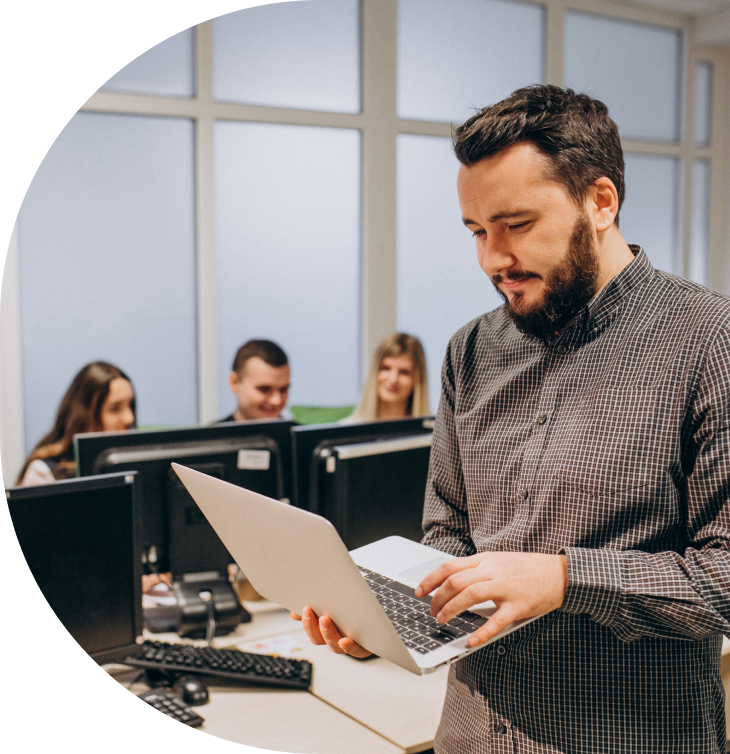
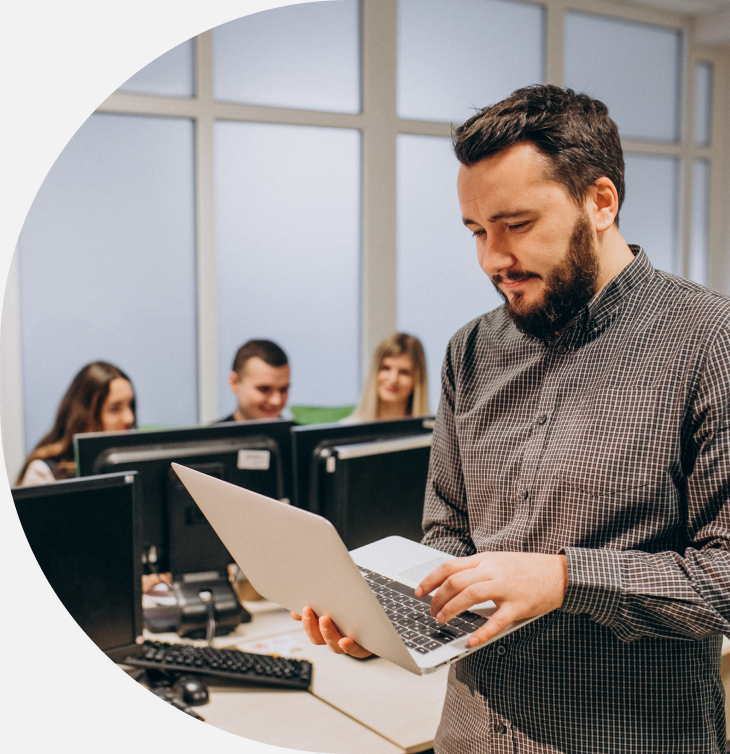
index-hero

diff --git a/src/scss/assets/_variables.scss b/src/scss/assets/_variables.scss
@@ -20,11 +20,11 @@ $--section-x-padding-minus-576: calc((50vw - 268px) * -1);
 $--section-x-padding-minus-768: calc((50vw - 360px) * -1);
 $--section-x-padding-minus-1024: calc((50vw - 480px) * -1);
 $--section-x-padding-minus-1280: calc((50vw - 600px) * -1);
-$--section-x-padding-320: 60px;
-$--section-x-padding-576: 0px;
-$--section-x-padding-768: 0px;
-$--section-x-padding-1024: 70px;
-$--section-x-padding-1280: 100px;
+$--section-y-padding-320: 50px;
+$--section-y-padding-576: 0px;
+$--section-y-padding-768: 0px;
+$--section-y-padding-1024: 60px;
+$--section-y-padding-1280: 80px;
 
 $--header-height-320: 70px;
 $--header-height-768: 90px;

diff --git a/src/sections/index-hero/index-hero.scss b/src/sections/index-hero/index-hero.scss
@@ -1,3 +1,40 @@
 @import '../../scss/assets/colors';
 @import '../../scss/assets/mixins';
 @import '../../scss/assets/variables';
+
+.index-hero {
+  padding-bottom: 70px;
+  background: $--background-color;
+
+  &__pic {
+    margin: 0 $--section-x-padding-minus-320 30px 0;
+    display: block;
+  }
+
+  &__img {
+    width: 100%;
+    height: 100%;
+  }
+
+  &__title {
+    position: relative;
+  }
+
+  &__descr {
+    margin: 30px 0 0;
+    position: relative;
+  }
+
+  &__btns {
+    margin: 40px 0 0;
+    display: flex;
+  }
+
+  &__btn {
+    padding: 0.86em 2em;
+
+    &:first-child {
+      margin-right: 15px;
+    }
+  }
+}

diff --git a/src/scss/style/interface/interface.scss b/src/scss/style/interface/interface.scss
@@ -12,7 +12,7 @@ html[lang] {
 }
 
 body {
-  font: 14px/1.5 $--text-font;
+  font: 300 14px/1.5 $--text-font;
   color: $--black-color;
   // no-scroll is added by open mobile-menu or popups
   &.no-scroll {
@@ -154,6 +154,22 @@ body {
 
 // Sections
 .sect {
+  padding-top: $--section-y-padding-320;
+  padding-bottom: $--section-y-padding-320;
+  &-h1 {
+    font: 500 28px/1.3 $--text-font;
+    letter-spacing: 0.01em;
+  }
+
+  &-h2 {
+    font: 500 26px/1.5 $--text-font;
+    letter-spacing: 0.01em;
+  }
+
+  &-h3 {
+    font: 500 20px/1.5 $--text-font;
+  }
+
   &-bg {}
 
   &-title {}

diff --git a/src/js/script.js b/src/js/script.js
@@ -31,13 +31,13 @@ document.addEventListener('DOMContentLoaded', function() {
     allowPageScroll: false
   });
 
-  menu.open();
+  // menu.open();
 
-  // let navLinks = qa('.nav-link, .hdr__callback');
+  let navLinks = qa('.nav-link[href^="#"], .btn[data-scroll-target], .hdr__logo-img[data-scroll-target]');
 
-  // for (let i = 0, len = navLinks.length; i < len; i++) {
-  // navLinks[i].addEventListener('click', scrollToTarget);
-  // }
+  for (let i = 0, len = navLinks.length; i < len; i++) {
+    navLinks[i].addEventListener('click', scrollToTarget);
+  }
 
   // sticky(hdr);
 

diff --git a/src/sections/index-hero/index-hero.768.scss b/src/sections/index-hero/index-hero.768.scss
@@ -1,3 +1,39 @@
 @import '../../scss/assets/colors';
 @import '../../scss/assets/mixins';
 @import '../../scss/assets/variables';
+
+.index-hero {
+  padding-top: 110px;
+  position: relative;
+
+  &__pic {
+    margin: 0;
+    width: 65%;
+    position: absolute;
+    right: 0;
+    top: 0;
+  }
+
+  &__img {}
+
+  &__title {
+    max-width: 350px;
+  }
+
+  &__descr {
+    margin: 40px 0 0;
+    max-width: 310px;
+  }
+
+  &__btns {
+    position: relative;
+  }
+
+  &__btn {
+    padding: 0.87em 2.5em;
+
+    &:first-child {
+      margin-right: 30px;
+    }
+  }
+}

diff --git a/src/scss/style/buttons/buttons.scss b/src/scss/style/buttons/buttons.scss
@@ -1,15 +1,18 @@
-
 @import '../../assets/colors';
 @import '../../assets/mixins';
 @import '../../assets/variables';
+
 .btn {
-  
+  font: 500 14px/1.5 $--text-font;
 }
 
-.btn-blue {
-
+.btn-primary {
+  border: 1px solid $--accent-color;
+  background: $--accent-color;
+  color: $--white-color;
 }
 
-.btn-ol {
-
+.btn-ol-primary {
+  border: 1px solid $--accent-color;
+  color: $--black-color;
 }

diff --git a/src/sections/index-hero/index-hero.1024.scss b/src/sections/index-hero/index-hero.1024.scss
@@ -1,3 +1,25 @@
 @import '../../scss/assets/colors';
 @import '../../scss/assets/mixins';
 @import '../../scss/assets/variables';
+
+.index-hero {
+  padding-top: 100px;
+  padding-bottom: 95px;
+
+  &__pic {
+    width: auto;
+    height: 100%;
+  }
+
+  &__img {}
+
+  &__title {
+    max-width: 515px;
+  }
+
+  &__descr {
+    max-width: 395px;
+  }
+
+  &__btns {}
+}

diff --git a/src/scss/style/interface/interface.1024.scss b/src/scss/style/interface/interface.1024.scss
@@ -1,4 +1,24 @@
-
 @import '../../assets/colors';
 @import '../../assets/mixins';
 @import '../../assets/variables';
+
+body {
+  font-size: 18px;
+}
+
+.sect {
+  padding-top: $--section-y-padding-1024;
+  padding-bottom: $--section-y-padding-1024;
+
+  &-h1 {}
+
+  &-h2 {}
+
+  &-h3 {}
+
+  &-bg {}
+
+  &-title {}
+
+  &-descr {}
+}

diff --git a/src/sections/index-hero/index-hero.1280.scss b/src/sections/index-hero/index-hero.1280.scss
@@ -1,3 +1,22 @@
 @import '../../scss/assets/colors';
 @import '../../scss/assets/mixins';
 @import '../../scss/assets/variables';
+
+.index-hero {
+  padding-top: 90px;
+  padding-bottom: 110px;
+
+  &__pic {}
+
+  &__img {}
+
+  &__title {
+    max-width: 640px;
+  }
+
+  &__descr {
+    max-width: 430px;
+  }
+
+  &__btns {}
+}

diff --git a/src/scss/style/interface/interface.1280.scss b/src/scss/style/interface/interface.1280.scss
@@ -1,4 +1,22 @@
-
 @import '../../assets/colors';
 @import '../../assets/mixins';
 @import '../../assets/variables';
+
+.sect {
+  padding-top: $--section-y-padding-1280;
+  padding-bottom: $--section-y-padding-1280;
+
+  &-h1 {
+    font-size: 60px;
+  }
+
+  &-h2 {}
+
+  &-h3 {}
+
+  &-bg {}
+
+  &-title {}
+
+  &-descr {}
+}

diff --git a/src/scss/style/interface/interface.768.scss b/src/scss/style/interface/interface.768.scss
@@ -1,4 +1,27 @@
-
 @import '../../assets/colors';
 @import '../../assets/mixins';
 @import '../../assets/variables';
+
+body {
+  font-size: 16px;
+}
+
+.sect {
+  &-h1 {
+    font-size: 48px;
+  }
+
+  &-h2 {
+    font-size: 42px;
+  }
+
+  &-h3 {
+    font-size: 24px;
+  }
+
+  &-bg {}
+
+  &-title {}
+
+  &-descr {}
+}

diff --git a/src/sections/index-hero/index-hero.576.scss b/src/sections/index-hero/index-hero.576.scss
@@ -1,3 +1,9 @@
 @import '../../scss/assets/colors';
 @import '../../scss/assets/mixins';
 @import '../../scss/assets/variables';
+
+.index-hero {
+  &__pic {
+    margin-right: $--section-x-padding-minus-576;
+  }
+}
